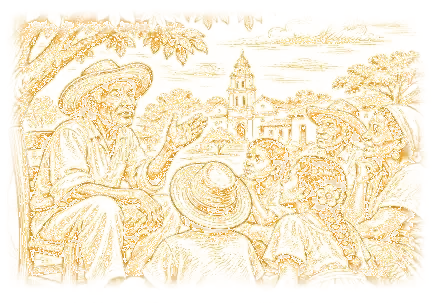
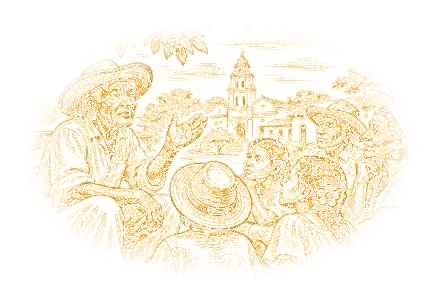
style(historia): integrar ilustracion organica de la iglesia y difuminar grabados sin marcos ni cajas de tarjeta

Changed region(s): [[0.0295, 0.0297, 0.9159, 0.9505], [0.5023, 0.1485, 0.975, 0.9505]]

diff --git a/src/app/pages/historia/historia.css b/src/app/pages/historia/historia.css
@@ -159,35 +159,32 @@
 
 /* 4. TARJETA DESTACADA DEL CAPÍTULO ACTIVO CON MARCO NOBLE */
 .capitulo-featured-card {
-  max-width: 960px;
-  margin: 0 auto 16px;
-  padding: 0 12px;
+  max-width: 980px;
+  margin: 0 auto 28px;
+  padding: 0 16px;
 }
 
 .featured-card-frame {
   display: grid;
-  grid-template-columns: clamp(260px, 34vw, 360px) 1fr;
-  gap: clamp(20px, 3.2vw, 36px);
-  padding: clamp(20px, 3vw, 32px);
-  background-color: #fcf8ef;
-  border-radius: 18px;
+  grid-template-columns: clamp(260px, 36vw, 420px) 1fr;
+  gap: clamp(24px, 4vw, 52px);
+  padding: clamp(12px, 2vw, 24px) 0;
+  background: transparent !important;
+  border-radius: 0 !important;
   position: relative;
-  box-shadow:
-    0 10px 30px rgba(96, 65, 24, 0.08),
-    inset 0 0 0 1px rgba(212, 162, 56, 0.45),
-    inset 0 0 0 5px rgba(252, 248, 239, 0.8),
-    inset 0 0 0 6px rgba(212, 162, 56, 0.25);
+  border: none !important;
+  box-shadow: none !important;
+  align-items: center;
 }
 
 .featured-card-media {
   position: relative;
   width: 100%;
-  aspect-ratio: 4 / 3;
-  border-radius: 10px;
-  overflow: hidden;
-  box-shadow: none;
-  border: none;
-  background: transparent;
+  border-radius: 0 !important;
+  overflow: visible !important;
+  box-shadow: none !important;
+  border: none !important;
+  background: transparent !important;
   display: flex;
   align-items: center;
   justify-content: center;
@@ -195,11 +192,13 @@
 
 .featured-card-img {
   width: 100%;
-  height: 100%;
+  max-height: 420px;
+  height: auto;
   object-fit: contain;
   display: block;
   mix-blend-mode: multiply;
   transition: transform 0.4s ease;
+  filter: contrast(1.05);
 }
 
 .featured-card-frame:hover .featured-card-img {
@@ -278,14 +277,14 @@
 
 /* 6. CUADRÍCULA DE TODAS LAS ILUSTRACIONES HISTÓRICAS (DIBUJOS DIRECTOS, SIN FORMA DE TARJETAS NI MOSAICO) */
 .historia-gallery-grid {
-  display: grid;
-  grid-template-columns: repeat(3, minmax(0, 1fr));
-  gap: clamp(34px, 4.5vw, 64px) clamp(28px, 3.8vw, 54px);
-  max-width: 860px;
+  display: flex;
+  flex-wrap: wrap;
+  justify-content: center;
+  gap: clamp(36px, 4.5vw, 68px) clamp(30px, 4vw, 56px);
+  max-width: 940px;
   margin: 0 auto;
-  padding: clamp(20px, 3vw, 36px) clamp(16px, 2.5vw, 24px) clamp(44px, 5.5vw, 68px);
+  padding: clamp(24px, 3.5vw, 44px) clamp(16px, 2.5vw, 24px) clamp(48px, 6vw, 76px);
   align-items: center;
-  justify-items: center;
 }
 
 .gallery-item-card {
@@ -295,14 +294,13 @@
   border-radius: 0 !important;
   box-shadow: none !important;
   padding: 0 !important;
-  margin: 0 auto !important;
+  margin: 0 !important;
   cursor: pointer;
   outline: none;
   display: flex;
   align-items: center;
   justify-content: center;
-  width: 100%;
-  max-width: clamp(190px, 22vw, 245px);
+  width: clamp(190px, 26vw, 240px);
   transition: transform 0.28s cubic-bezier(0.22, 1, 0.36, 1);
 }
 
@@ -370,18 +368,31 @@
 
   .featured-card-frame {
     grid-template-columns: 1fr;
-    gap: 16px;
+    gap: 20px;
+    text-align: center;
+  }
+
+  .featured-card-media {
+    max-width: 320px;
+    margin: 0 auto;
   }
 
   .historia-gallery-grid {
-    grid-template-columns: repeat(2, minmax(0, 1fr));
     gap: 28px 20px;
+  }
+
+  .gallery-item-card {
+    width: clamp(140px, 42vw, 190px);
   }
 }
 
 @media (max-width: 480px) {
   .historia-gallery-grid {
-    grid-template-columns: 1fr;
     gap: 24px;
+  }
+
+  .gallery-item-card {
+    width: 100%;
+    max-width: 260px;
   }
 }
